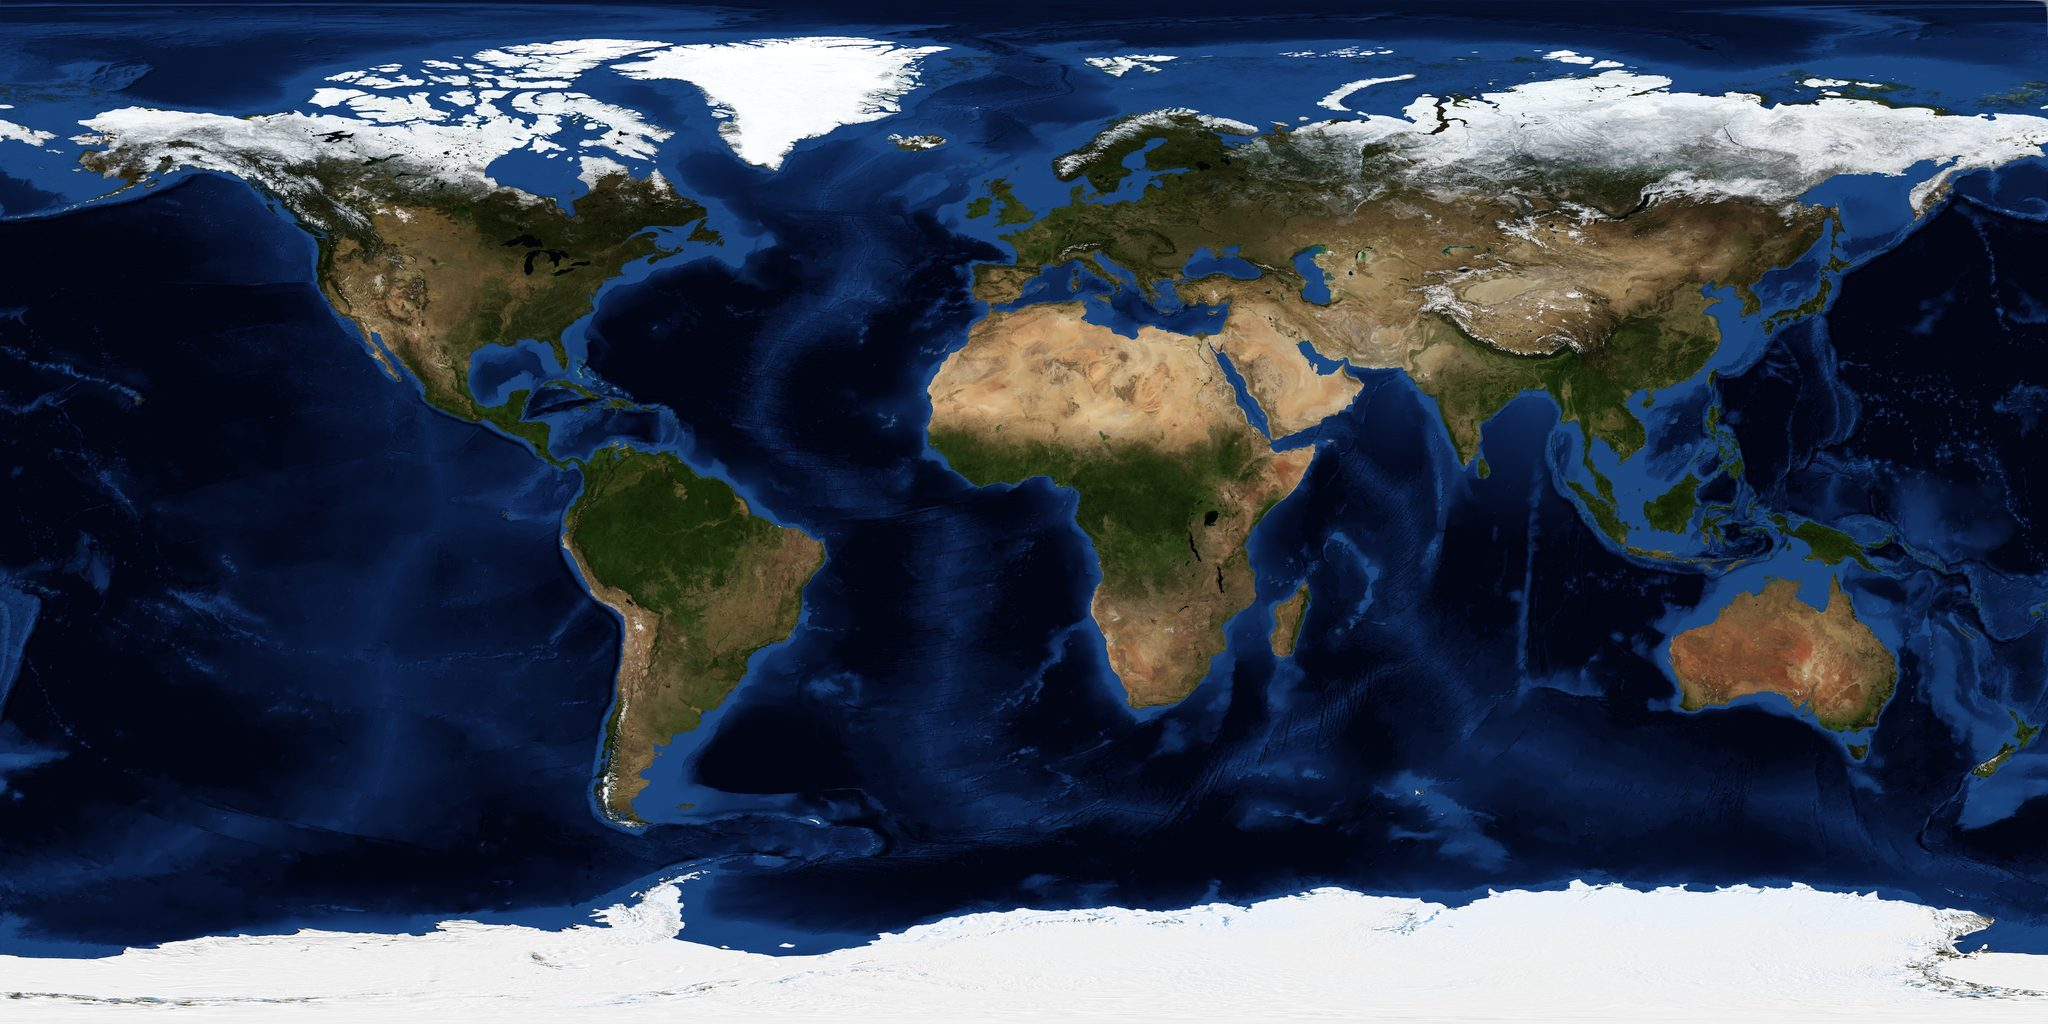
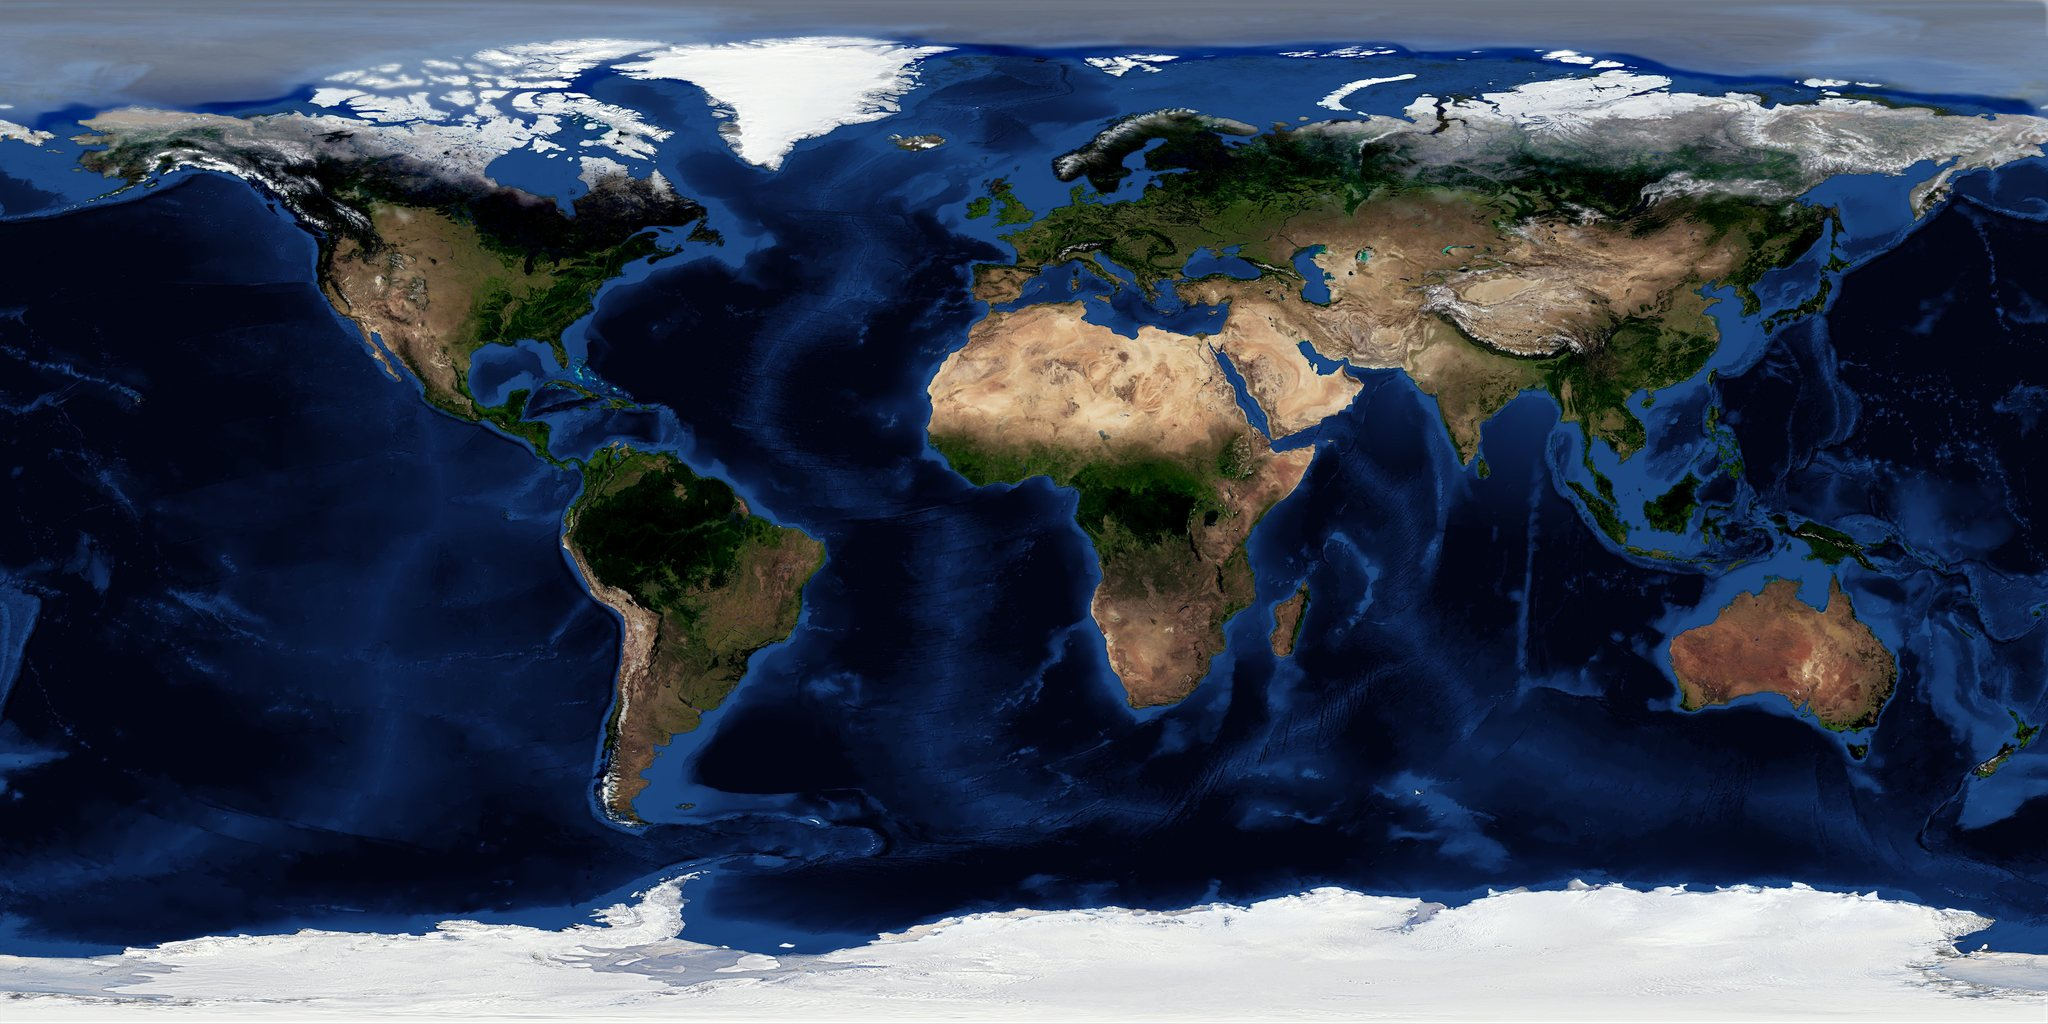
Earth hero: 8K land and night maps composited with Blue Marble oceans; navy swapped for the Lemon cover blue-gray
Claude-Session: https://claude.ai/code/session_01Eg5tJ6HTtzx9eZtnWdeUP6

diff --git a/style.css b/style.css
@@ -5,7 +5,7 @@
   --cream: #FBF6E9; --paper: #FFFDF7; --line: #E6DCC0;
   --ink: #18222E; --soft: #55626A;
   --teal: #0E5E6F; --teal-2: #0B4A57; --lemon: #F2C230; --lemon-soft: #FFF4CC; --coral: #E8684A;
-  --navy: #14284B; --navy-2: #0D1C36; --red: #C8312B;
+  --navy: #0F4957; --navy-2: #062834; --red: #C8312B;
   /* older names used across the book pages */
   --mist: var(--cream); --sheet: var(--paper); --slate: var(--soft); --rule: var(--line);
   --leaf: var(--teal); --leaf-2: var(--teal-2); --berry: var(--red);
@@ -200,7 +200,7 @@ body.home { background: var(--cream); }
 .top.over .name, .top.over .nav a { color: #fff; }
 .top.over .nav a:hover { color: var(--lemon); }
 .top.over .nav a.btn-sm { background: var(--lemon); color: var(--ink); }
-.top.over.solid { background: rgba(13,28,54,.86); backdrop-filter: blur(12px); -webkit-backdrop-filter: blur(12px); border-bottom-color: rgba(255,255,255,.08); }
+.top.over.solid { background: rgba(6,40,52,.88); backdrop-filter: blur(12px); -webkit-backdrop-filter: blur(12px); border-bottom-color: rgba(255,255,255,.08); }
 .space { position: relative; min-height: 100vh; min-height: 100svh; background: #000; color: #fff; display: flex; align-items: center; overflow: hidden; isolation: isolate; }
 .space canvas { position: absolute; inset: 0; width: 100%; height: 100%; display: block; z-index: -1; opacity: 0; transition: opacity 1.2s ease; }
 .space.live canvas { opacity: 1; }
@@ -224,13 +224,13 @@ body.home { background: var(--cream); }
 .bhead .intro { margin: 0; }
 .bk { display: grid; grid-template-columns: minmax(0, 5fr) minmax(0, 6fr); gap: clamp(28px, 5vw, 72px); align-items: center; padding: 44px 0; border-top: 2px solid var(--navy); }
 .bk:nth-of-type(even) .art { order: 2; }
-.art { position: relative; display: block; aspect-ratio: 1 / 1; border-radius: 6px; overflow: hidden; text-decoration: none; isolation: isolate; box-shadow: 0 30px 60px -30px rgba(20,40,75,.5); transition: transform .5s cubic-bezier(.2,.7,.2,1), box-shadow .5s; }
-.art:hover { transform: translateY(-6px); box-shadow: 0 40px 70px -30px rgba(20,40,75,.6); }
+.art { position: relative; display: block; aspect-ratio: 1 / 1; border-radius: 6px; overflow: hidden; text-decoration: none; isolation: isolate; box-shadow: 0 30px 60px -30px rgba(6,40,52,.5); transition: transform .5s cubic-bezier(.2,.7,.2,1), box-shadow .5s; }
+.art:hover { transform: translateY(-6px); box-shadow: 0 40px 70px -30px rgba(6,40,52,.6); }
 .art svg { position: absolute; inset: 0; width: 100%; height: 100%; z-index: -1; }
 .art .t { position: absolute; left: 7%; right: 7%; bottom: 7%; font-family: var(--head); font-weight: 700; font-size: clamp(34px, 5.4vw, 64px); line-height: .98; letter-spacing: -.02em; }
 .art .t small { display: block; font-family: var(--serif); font-style: italic; font-weight: 400; font-size: .34em; letter-spacing: 0; margin-bottom: 8px; opacity: .85; }
 .art .t em { display: block; font-style: normal; font-family: 'Prompt', sans-serif; font-weight: 500; font-size: .3em; letter-spacing: 0; margin-top: 10px; }
-.toe .art { background: radial-gradient(circle at 70% 30%, #1E3A68, var(--navy-2) 70%); color: #fff; }
+.toe .art { background: radial-gradient(circle at 70% 30%, #2A6C7A, var(--navy) 45%, var(--navy-2) 85%); color: #fff; }
 .toe .art .t { color: #fff; } .toe .art .t small { color: var(--lemon); }
 .one .art { background: var(--teal); color: var(--cream); }
 .lem .art { background: var(--lemon); color: var(--navy); }

diff --git a/assets/earth/earth.js b/assets/earth/earth.js
@@ -1,5 +1,6 @@
 /* Earth emerging from the dark. One full-screen WebGL2 quad: the globe is ray-traced per pixel,
-   so it stays sharp at any size. Textures: NASA Blue Marble, Black Marble and cloud maps (public domain).
+   so it stays sharp at any size. Textures: NASA Blue Marble oceans and clouds (public domain); land and night lights at 8K from
+   Solar System Scope (CC BY 4.0, colour-matched and composited).
    Falls back to the static poster when WebGL2 is missing or motion is reduced. */
 (function () {
   var host = document.querySelector('.space');
@@ -10,8 +11,12 @@
   if (!gl) { host.classList.add('static'); return; }
 
   var base = cv.getAttribute('data-base') || 'assets/earth/';
-  var big = Math.max(screen.width, screen.height) * (window.devicePixelRatio || 1) > 1700;
-  var res = big ? '4k' : '2k';
+  /* texture tier: 8K on large or high-density screens whose GPU allows it, 4K in between, 2K on phones */
+  var px = Math.max(screen.width, screen.height) * (window.devicePixelRatio || 1);
+  var maxTex = gl.getParameter(gl.MAX_TEXTURE_SIZE);
+  var mob = Math.min(screen.width, screen.height) < 600;
+  var res = (!mob && px >= 2200 && maxTex >= 8192) ? '8k' : (px > 1700 && maxTex >= 4096) ? '4k' : '2k';
+  var cres = res === '8k' ? '4k' : res;
 
   var VS = '#version 300 es\nin vec2 p;void main(){gl_Position=vec4(p,0.,1.);}';
   var FS = [
@@ -38,7 +43,7 @@
     '  vec4 G[4];G[0]=vec4(.16,.78,.020,.6);G[1]=vec4(.42,.22,.013,-.9);G[2]=vec4(.07,.30,.009,.2);G[3]=vec4(.55,.88,.007,1.3);',
     '  for(int i=0;i<4;i++){vec2 d=u-G[i].xy*vec2(uRes.x/uRes.y,1.);float a=G[i].w;d=mat2(cos(a),-sin(a),sin(a),cos(a))*d;',
     '    d.y*=2.6;float r=length(d)/G[i].z;float arm=.5+.5*sin(atan(d.y,d.x)*2.-r*4.);',
-    '    c+=vec3(.85,.80,1.)*(exp(-r*r*.9)*.16*(.6+.4*arm)+exp(-r*r*14.)*.35);}',
+    '    c+=vec3(.86,.90,.95)*(exp(-r*r*.9)*.16*(.6+.4*arm)+exp(-r*r*14.)*.35);}',
     '  return c;}',
     'void main(){',
     '  vec2 f=gl_FragCoord.xy;',
@@ -169,7 +174,7 @@
   Promise.all([
     load(0, 'uDay', 'day-' + res + '.jpg'),
     load(1, 'uNight', 'night-' + res + '.jpg'),
-    load(2, 'uCloud', 'clouds-' + res + '.jpg'),
+    load(2, 'uCloud', 'clouds-' + cres + '.jpg'),
     load(3, 'uSurf', 'surface-2k.png')
   ]).then(function () { t0 = 0; requestAnimationFrame(frame); })
     .catch(function () { host.classList.add('static'); });

diff --git a/index.html b/index.html
@@ -14,7 +14,6 @@
 <link rel="preconnect" href="https://fonts.gstatic.com" crossorigin>
 <link href="https://fonts.googleapis.com/css2?family=Prompt:wght@400;500;600;700&family=Sarabun:ital,wght@0,400;0,600;0,700;1,400&family=Lora:ital,wght@0,500;1,400;1,500&display=swap" rel="stylesheet">
 <link rel="stylesheet" href="style.css">
-<link rel="preload" as="image" href="assets/earth/day-2k.jpg">
 <script type="application/ld+json">{"@context":"https://schema.org","@type":"Person","name":"Michael K. Baines","url":"https://michaelkbaines.com/","jobTitle":"Author and researcher","sameAs":["https://eequalsicsquared.com","https://orcid.org/0009-0001-8084-3870"]}</script>
 </head>
 <body class="home">
@@ -220,7 +219,7 @@
         <a href="mailto:mkb.info@proton.me">mkb.info@proton.me</a>
       </nav>
     </div>
-    <div class="fbase"><span>&copy; 2026 Michael K. Baines</span><span>No cookies, no tracking. Earth imagery: NASA Visible Earth.</span></div>
+    <div class="fbase"><span>&copy; 2026 Michael K. Baines</span><span>No cookies, no tracking. Earth: NASA imagery; 8K land and night maps by <a href="https://www.solarsystemscope.com/textures/">Solar System Scope</a>, <a href="https://creativecommons.org/licenses/by/4.0/">CC BY 4.0</a>.</span></div>
   </div>
 </footer>
 <script src="signup.js"></script>

diff --git a/big-toe.html b/big-toe.html
@@ -125,7 +125,7 @@
         <a href="mailto:mkb.info@proton.me">mkb.info@proton.me</a>
       </nav>
     </div>
-    <div class="fbase"><span>&copy; 2026 Michael K. Baines</span><span>No cookies, no tracking. Earth imagery: NASA Visible Earth.</span></div>
+    <div class="fbase"><span>&copy; 2026 Michael K. Baines</span><span>No cookies, no tracking. Earth: NASA imagery; 8K land and night maps by <a href="https://www.solarsystemscope.com/textures/">Solar System Scope</a>, <a href="https://creativecommons.org/licenses/by/4.0/">CC BY 4.0</a>.</span></div>
   </div>
 </footer>
 <script src="signup.js"></script>

diff --git a/rediscovering-oneness.html b/rediscovering-oneness.html
@@ -117,7 +117,7 @@
         <a href="mailto:mkb.info@proton.me">mkb.info@proton.me</a>
       </nav>
     </div>
-    <div class="fbase"><span>&copy; 2026 Michael K. Baines</span><span>No cookies, no tracking. Earth imagery: NASA Visible Earth.</span></div>
+    <div class="fbase"><span>&copy; 2026 Michael K. Baines</span><span>No cookies, no tracking. Earth: NASA imagery; 8K land and night maps by <a href="https://www.solarsystemscope.com/textures/">Solar System Scope</a>, <a href="https://creativecommons.org/licenses/by/4.0/">CC BY 4.0</a>.</span></div>
   </div>
 </footer>
 <script src="signup.js"></script>

diff --git a/press.html b/press.html
@@ -91,7 +91,7 @@
         <a href="mailto:mkb.info@proton.me">mkb.info@proton.me</a>
       </nav>
     </div>
-    <div class="fbase"><span>&copy; 2026 Michael K. Baines</span><span>No cookies, no tracking. Earth imagery: NASA Visible Earth.</span></div>
+    <div class="fbase"><span>&copy; 2026 Michael K. Baines</span><span>No cookies, no tracking. Earth: NASA imagery; 8K land and night maps by <a href="https://www.solarsystemscope.com/textures/">Solar System Scope</a>, <a href="https://creativecommons.org/licenses/by/4.0/">CC BY 4.0</a>.</span></div>
   </div>
 </footer>
 <script>

diff --git a/what-holds.html b/what-holds.html
@@ -74,7 +74,7 @@
         <a href="mailto:mkb.info@proton.me">mkb.info@proton.me</a>
       </nav>
     </div>
-    <div class="fbase"><span>&copy; 2026 Michael K. Baines</span><span>No cookies, no tracking. Earth imagery: NASA Visible Earth.</span></div>
+    <div class="fbase"><span>&copy; 2026 Michael K. Baines</span><span>No cookies, no tracking. Earth: NASA imagery; 8K land and night maps by <a href="https://www.solarsystemscope.com/textures/">Solar System Scope</a>, <a href="https://creativecommons.org/licenses/by/4.0/">CC BY 4.0</a>.</span></div>
   </div>
 </footer>
 
